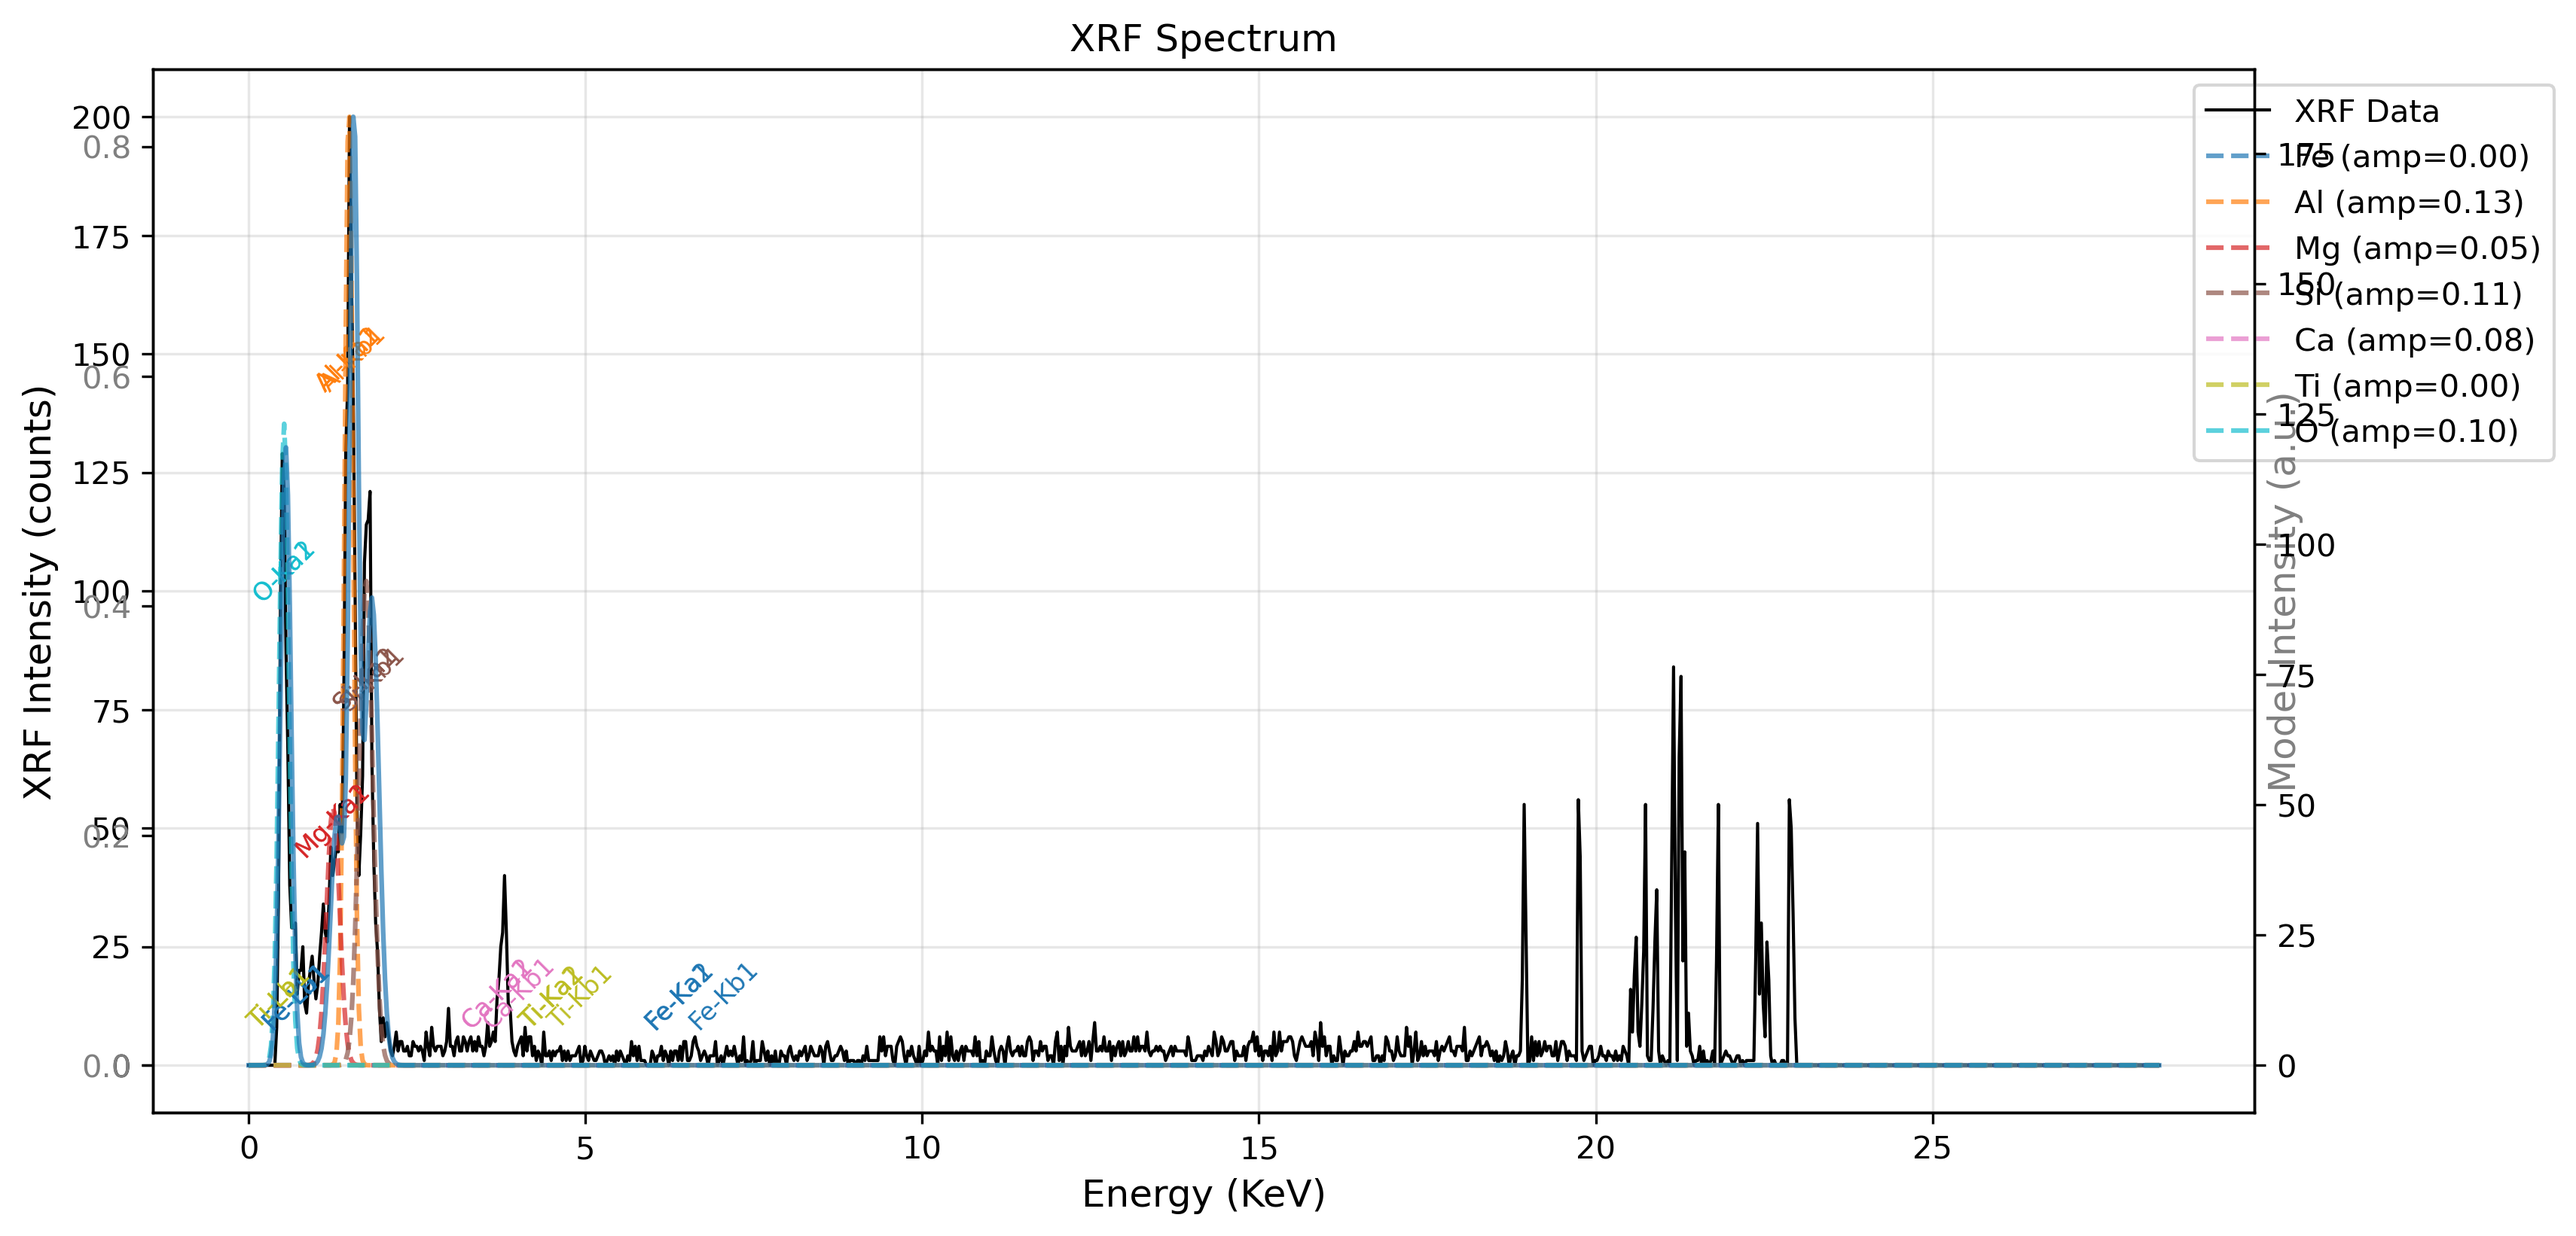
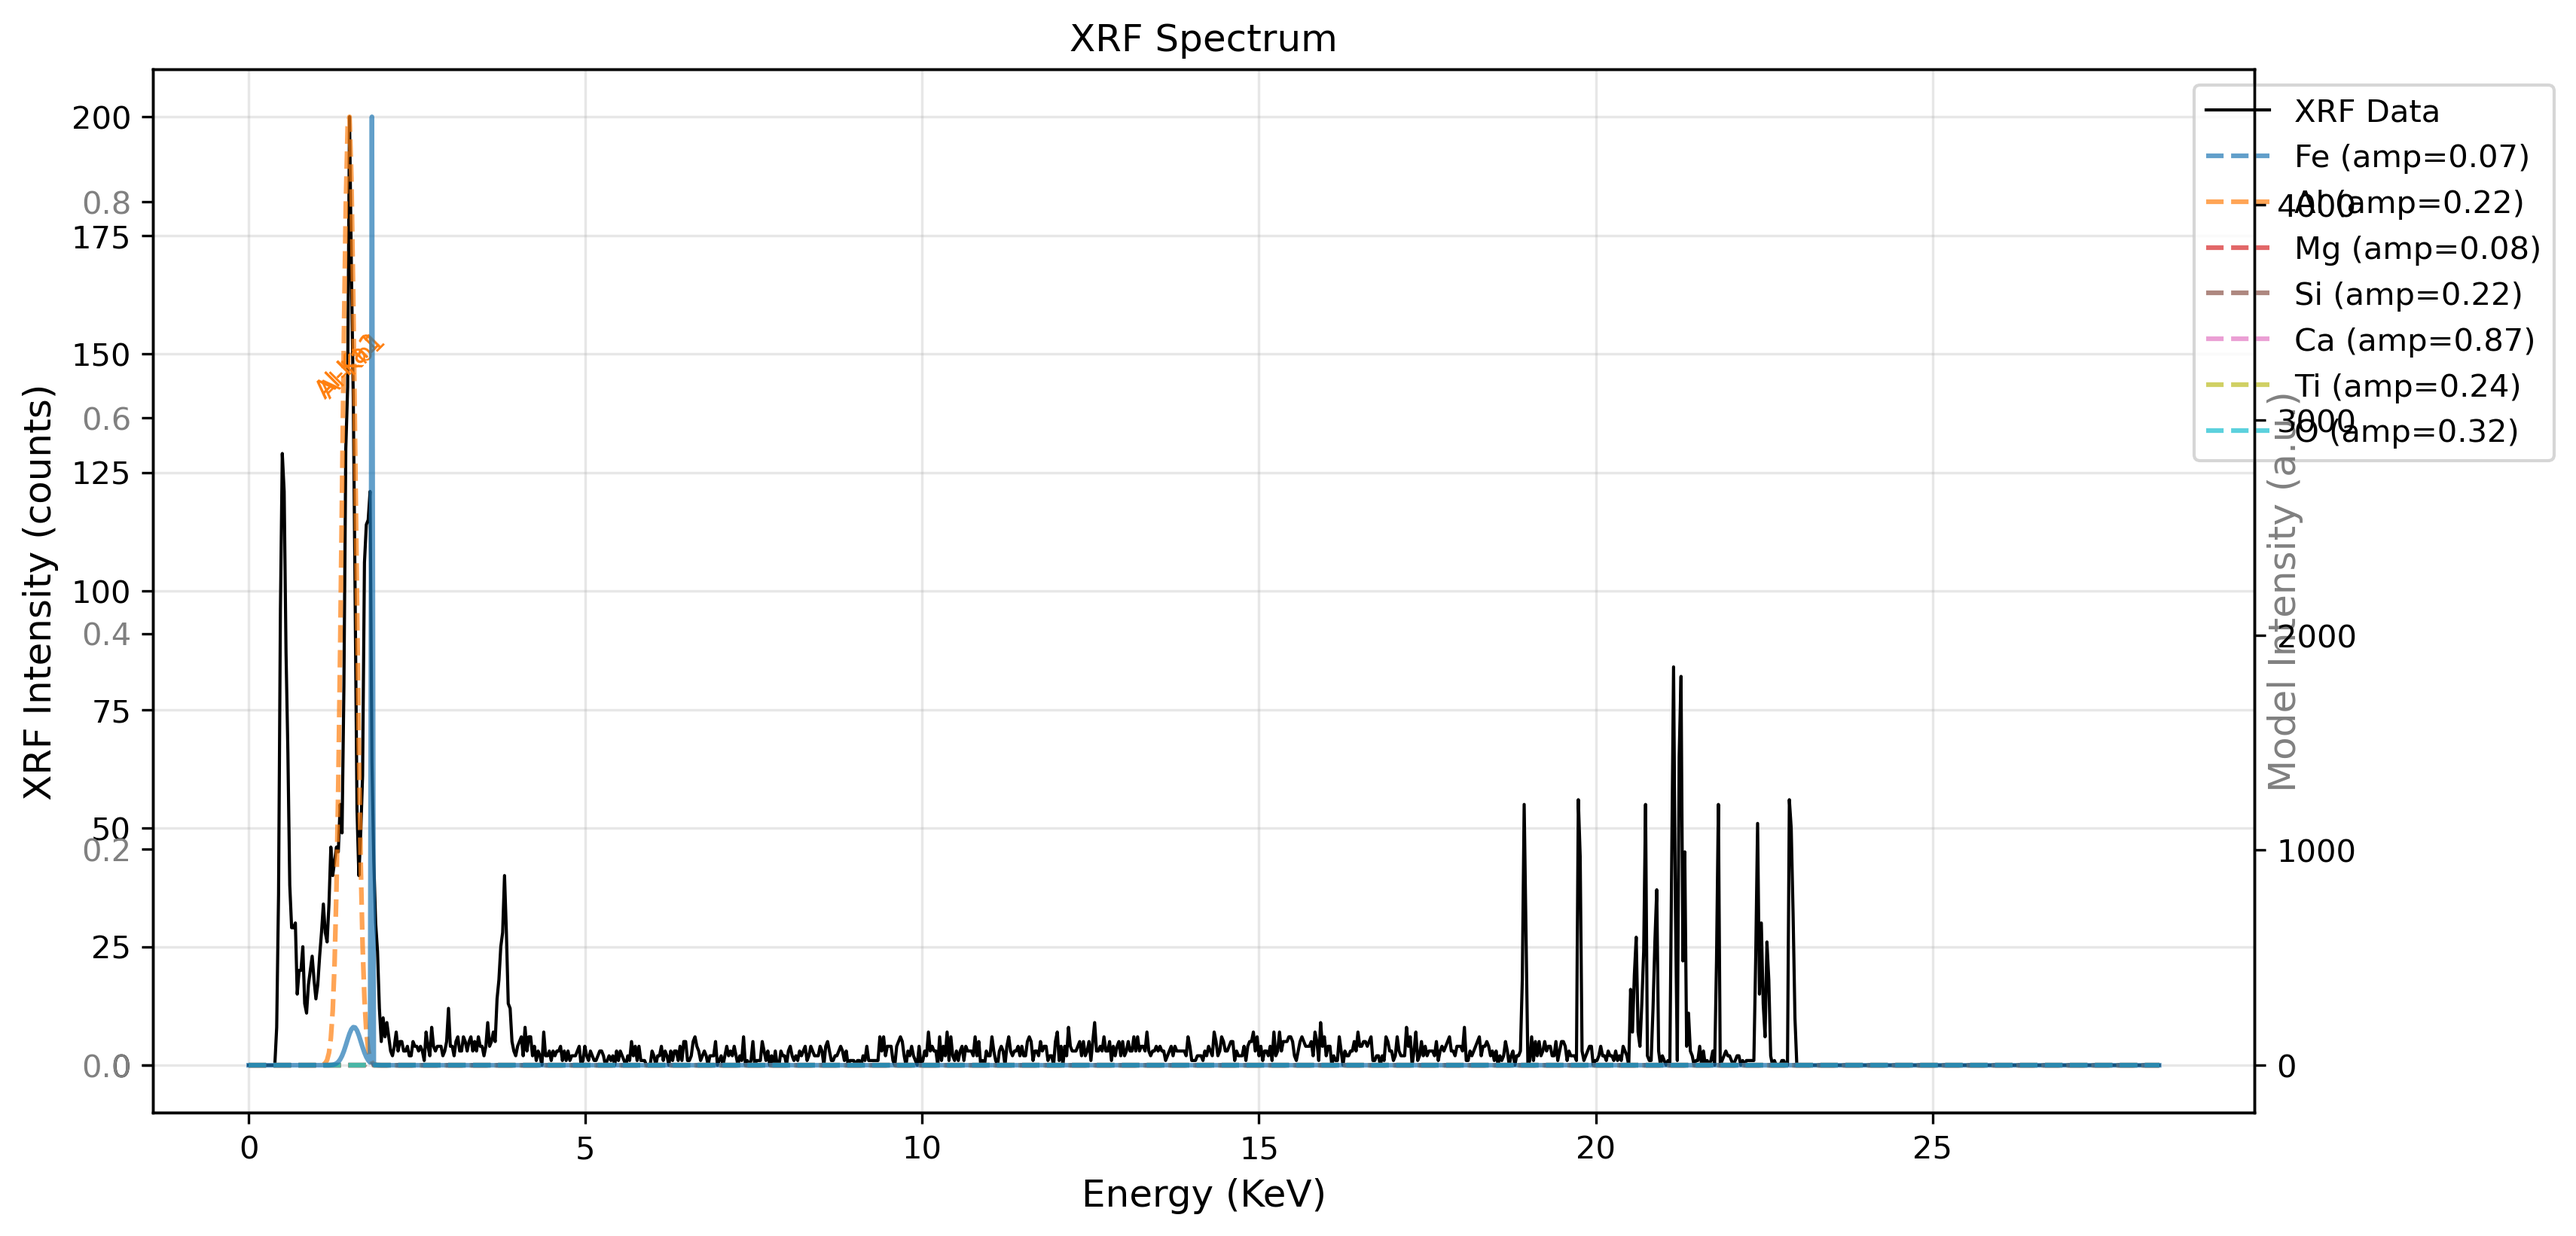
runnable xrf line code

diff --git a/xrf_fit/GAfit_plain.py b/xrf_fit/GAfit_plain.py
@@ -2,7 +2,6 @@ import pygad
 import numpy as np
 from data_handler import DataHandler
 import matplotlib.pyplot as plt
-from numba import jit
 
 class GaussianOptimizer:
     def __init__(self, data_handler, fits_path, bkg_path=None, x_range=None):
@@ -211,99 +210,126 @@ class GaussianOptimizer:
         chi_square = np.sum(((section_counts - section_model) / (section_errors+1e-6)) ** 2)
         return -chi_square  # Negative because we want to maximize fitness
     
-    @jit(nopython=True)
-    def calculate_section_fitness_numba(self, solution, e_range, energies, counts):
-        """
-        Calculate fitness (negative chi-square) for a specific energy range using Numba.
-        """
-        model_intensity = self.calculate_model_intensity(solution)
-        range_mask = (energies >= e_range[0]) & (energies <= e_range[1])
-        
-        section_counts = counts[range_mask]
-        section_model = model_intensity[range_mask]
-        section_errors = np.sqrt(np.abs(section_counts))  # Poisson errors
-        
-        chi_square = np.sum(((section_counts - section_model) / (section_errors + 1e-6)) ** 2)
-        return -chi_square  # Negative because we want to maximize fitness
-
-    @jit(nopython=True)
-    def custom_crossover(self, parents, offspring_size, energies, counts, n_elements):
+    def custom_crossover(self, parents, offspring_size, ga_instance):
         """
         Custom crossover function that optimizes based on element-specific regions.
+        
+        Args:
+            parents: Array of selected parents
+            offspring_size: Tuple of (n_offspring, n_params)
+            
+        Returns:
+            numpy.ndarray: Array of offspring
         """
         offspring = np.empty(offspring_size)
         
         # Define energy ranges for each element
-        element_ranges = np.empty((n_elements, 2, 2))  # Adjust size as needed
-        for i in range(n_elements):
-            means = self.data_handler.gaussian_models[i].means.values()
-            element_ranges[i, 0, 0] = means - 0.05
-            element_ranges[i, 0, 1] = means + 0.05
-        
-        # Pre-calculate fitness for parents
-        fitness_parents = np.empty(parents.shape[0])
-        for idx in range(parents.shape[0]):
-            fitness_parents[idx] = self.fitness_func(None, parents[idx], idx)
+        element_ranges = {}
+        for element, gaussian in self.data_handler.gaussian_models.items():
+            # Get mean energies for this element
+            means = list(gaussian.means.values())
+            # Create range around means (±0.5 keV for example)
+            element_ranges[element] = [(e - 0.05, e + 0.05) for e in means]
         
         # For each offspring
         for k in range(offspring_size[0]):
+            # Select two parents
             parent1_idx = k % parents.shape[0]
             parent2_idx = (k + 1) % parents.shape[0]
             
             parent1 = parents[parent1_idx]
             parent2 = parents[parent2_idx]
-            offspring[k] = parent1.copy()  # Initialize offspring with parent1's genes
+            
+            # Initialize offspring with parent1's genes
+            offspring[k] = parent1.copy()
             
             # For each element
-            for i in range(n_elements):
+            for i, element in enumerate(self.data_handler.elements):
+                # Get amplitude and sigma indices for this element
                 amp_idx = i
-                sigma_idx = i + n_elements
+                sigma_idx = i + self.n_elements
                 
                 # Calculate fitness for each parent in each energy range for this element
-                total_fitness_p1 = 0.0
-                total_fitness_p2 = 0.0
+                total_fitness_p1 = 0
+                total_fitness_p2 = 0
                 
-                for e_range in element_ranges[i]:
-                    total_fitness_p1 += self.calculate_section_fitness_numba(parent1, e_range, energies, counts)
-                    total_fitness_p2 += self.calculate_section_fitness_numba(parent2, e_range, energies, counts)
+                for e_range in element_ranges[element]:
+                    # Create temporary solutions with just this element's parameters
+                    temp_sol1 = parent1.copy()
+                    temp_sol2 = parent2.copy()
+                    
+                    # Calculate fitness for each parent in this range
+                    fitness_p1 = self.calculate_section_fitness(temp_sol1, e_range)
+                    fitness_p2 = self.calculate_section_fitness(temp_sol2, e_range)
+                    
+                    total_fitness_p1 += fitness_p1
+                    total_fitness_p2 += fitness_p2
                 
                 # Choose better parent's parameters for this element
                 if total_fitness_p2 > total_fitness_p1:
-                    offspring[k, amp_idx] = parent2[amp_idx] * (1 + np.random.normal(0, 0.01))
+                    # Only take amplitude from better parent
+                    offspring[k, amp_idx] = parent2[amp_idx]
+                    # offspring[k, amp_idx]+=np.random.normal(0, 0.01)
+                    offspring[k, amp_idx] *= (1 + np.random.normal(0, 0.01))
+
+                    # For sigma, do standard crossover (average of parents with random weight)
                     crossover_weight = np.random.random()
                     offspring[k, sigma_idx] = (crossover_weight * parent1[sigma_idx] + 
-                                                (1 - crossover_weight) * parent2[sigma_idx])
+                                            (1 - crossover_weight) * parent2[sigma_idx])
             
             # Handle scale parameter (last parameter)
             scale_idx = -1
-            total_fitness = abs(fitness_parents[parent1_idx]) + abs(fitness_parents[parent2_idx])
-            w1 = abs(fitness_parents[parent1_idx]) / total_fitness if total_fitness > 0 else 0.5
+            # Calculate weights based on parents' fitness values
             
-            offspring[k, scale_idx] = w1 * parent1[scale_idx] + (1 - w1) * parent2[scale_idx]
+            fitness_p1 = self.fitness_func(None, parent1, parent1_idx)
+            fitness_p2 = self.fitness_func(None, parent2, parent2_idx)
             
-            # Update offspring based on fitness
-            for eid in range(n_elements):
-                amp = offspring[k][eid]
-                sdev = offspring[k][self.n_elements + eid]
-                self.data_handler.gaussian_models[eid].std_devs[:] = sdev
-                intensity = self.data_handler.gaussian_models[eid](energies) * amp
+            # Convert fitness values to weights (ensure positive)
+            total_fitness = abs(fitness_p1) + abs(fitness_p2)
+            if total_fitness > 0:
+                w1 = abs(fitness_p1) / total_fitness
+            else:
+                w1 = 0.5  # Equal weights if both fitnesses are zero
                 
-                for e_range in element_ranges[eid]:
-                    fitness_offspring = self.calculate_section_fitness_numba(offspring[k], e_range, energies, counts)
-                    if fitness_offspring < -4:  # Threshold for poor fitness
-                        range_mask = (energies >= e_range[0]) & (energies <= e_range[1])
-                        adjustment = np.random.normal(0.0, 0.005)
-                        if np.sum(counts[range_mask]) > np.sum(intensity[range_mask]):
-                            offspring[k, eid] += adjustment  # Increase curve
-                        else:
-                            offspring[k, eid] -= adjustment  # Decrease curve
+            # Weighted average of scale parameters
+            offspring[k, scale_idx] = w1 * parent1[scale_idx] + (1-w1) * parent2[scale_idx]
             
+            
+            # eid=0
+            # for element, e_ranges in element_ranges.items():
+            #     amp=offspring[k][eid]
+            #     sdev=offspring[k][self.n_elements+eid]
+            #     self.data_handler.gaussian_models[element].std_devs[:] = sdev
+            #     intensity = self.data_handler.gaussian_models[element](self.energies)*amp
+            #     # print(element,amp,sdev)
+            #     # intensities=self.calculate_model_intensity(offspring[k])
+            #     # print("itensities:",intensity)
+            #     for e_range in e_ranges:
+            #         # Calculate fitness for the offspring in this range
+            #         fitness_offspring = self.calculate_section_fitness(offspring[k], e_range)
+            #         # Identify poor fitness values
+            #         if fitness_offspring < -4:  # Assuming 0.5 is the threshold for poor fitness
+            #             range_mask = (self.energies >= e_range[0]) & (self.energies <= e_range[1])
+            #             # print(np.where(range_mask),"MASK",fitness_offspring)
+            #             if sum(self.counts[np.where(range_mask)])>sum(intensity[np.where(range_mask)]):
+            #                 # print("max",max(intensity[range_mask]))
+            #             # Modify the offspring's value based on the intended curve
+            #             # if intended_curve:
+            #                 # Add a positive value to increase the curve
+            #                 offspring[k, eid]*= (1+np.random.normal(0.0, 0.05))  # Randomly add a small positive value
+            #             else:
+            #                 # Subtract a positive value to decrease the curve
+            #                 offspring[k, eid] *= (1-np.random.normal(0.0, 0.05))  # Randomly subtract a small positive value
+            #     eid+=1
             # Ensure bounds are respected
+            # Add small random variations (local search)
             mutation_mask = np.random.random(offspring_size[1]) < 0.1  # 10% mutation rate
             mutation = np.random.normal(0, 0.01, offspring_size[1])  # Small variations
             offspring[k, mutation_mask] += mutation[mutation_mask]
             for j, gene_range in enumerate(self.gene_space):
-                offspring[k, j] = np.clip(offspring[k, j], gene_range['low'], gene_range['high'])
+                offspring[k, j] = min(gene_range['high'], 
+                                    max(gene_range['low'], 
+                                        offspring[k, j]))
         
         return offspring
 

diff --git a/xrf_fit/scipy_fit.py b/xrf_fit/scipy_fit.py
@@ -161,6 +161,34 @@ class ScipyOptimizer:
 
         return fig, (ax1, ax2)
 
+    def fit_from_files(self, fits_path, bkg_path=None, x_range=None, method='leastsq'):
+        """
+        Fit the data from the provided FITS and background FITS files.
+        
+        Args:
+            fits_path (str): Path to the FITS file to fit.
+            bkg_path (str, optional): Path to the background FITS file (default is None).
+            x_range (tuple, optional): Energy range (min_kev, max_kev) to fit (default is None).
+            method (str): Optimization method ('leastsq', 'levenberg', etc.).
+        
+        Returns:
+            tuple: (amplitudes, sigmas) - Optimized element amplitudes and sigmas.
+        """
+        # Initialize optimizer with the provided paths
+        self.fits_path = fits_path
+        self.bkg_path = bkg_path
+        self.x_range = x_range
+        self.method = method
+        
+        # Run optimization
+        solution, _ = self.run_optimization()
+        
+        # Extract amplitudes and sigmas
+        amplitudes = solution[:self.n_elements]
+        sigmas = solution[self.n_elements:-1]  # Assuming the last parameter is scale
+        
+        return amplitudes, sigmas
+
 def test_optimization(fits_path, bkg_path, method='leastsq', x_range=(0, 27)):
     """Test function to demonstrate the optimization."""
     handler = DataHandler(bkg_path=bkg_path)
